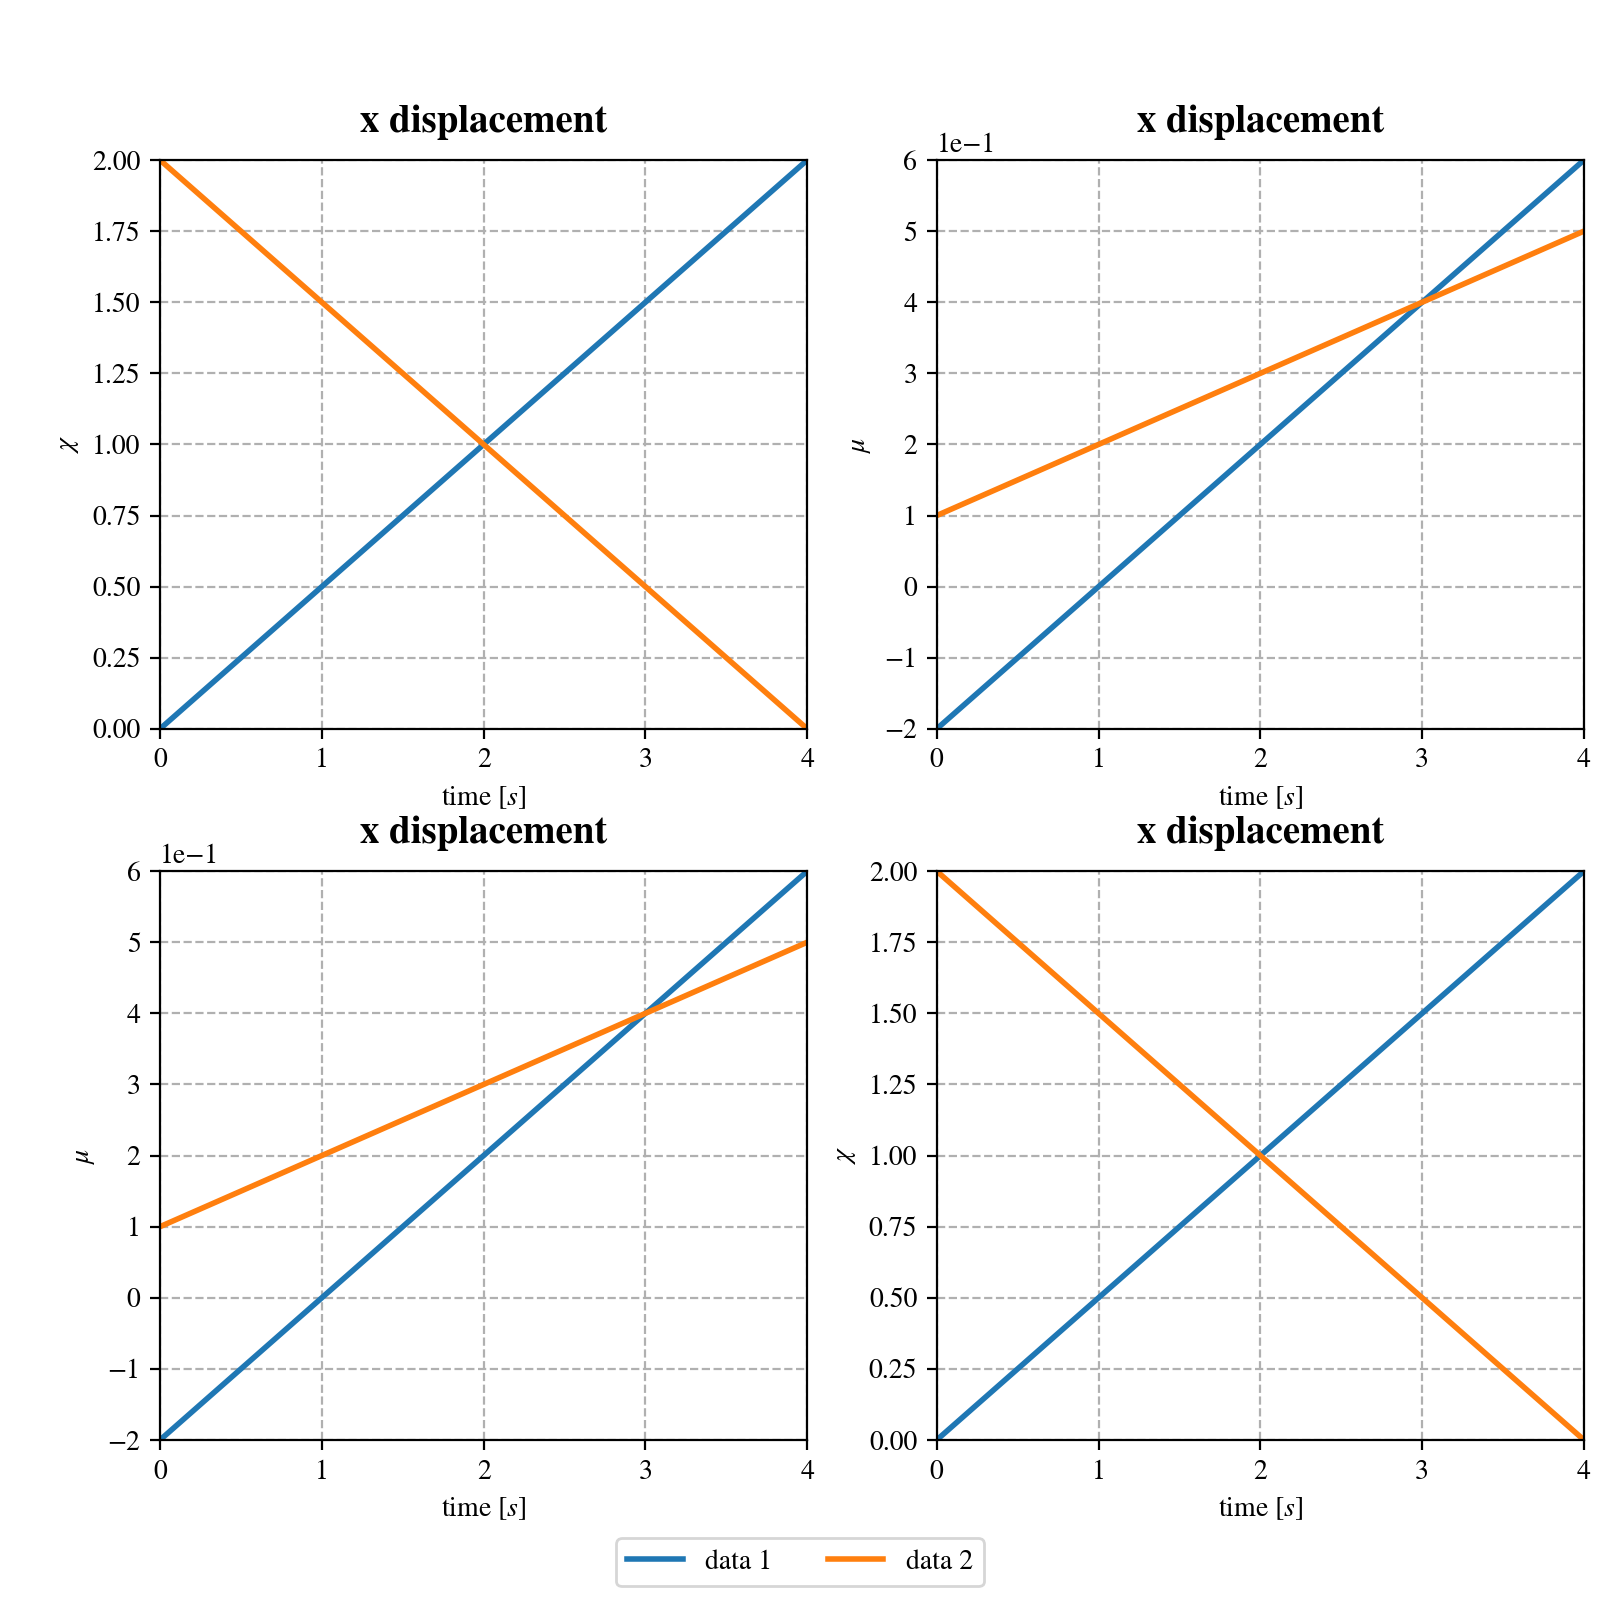
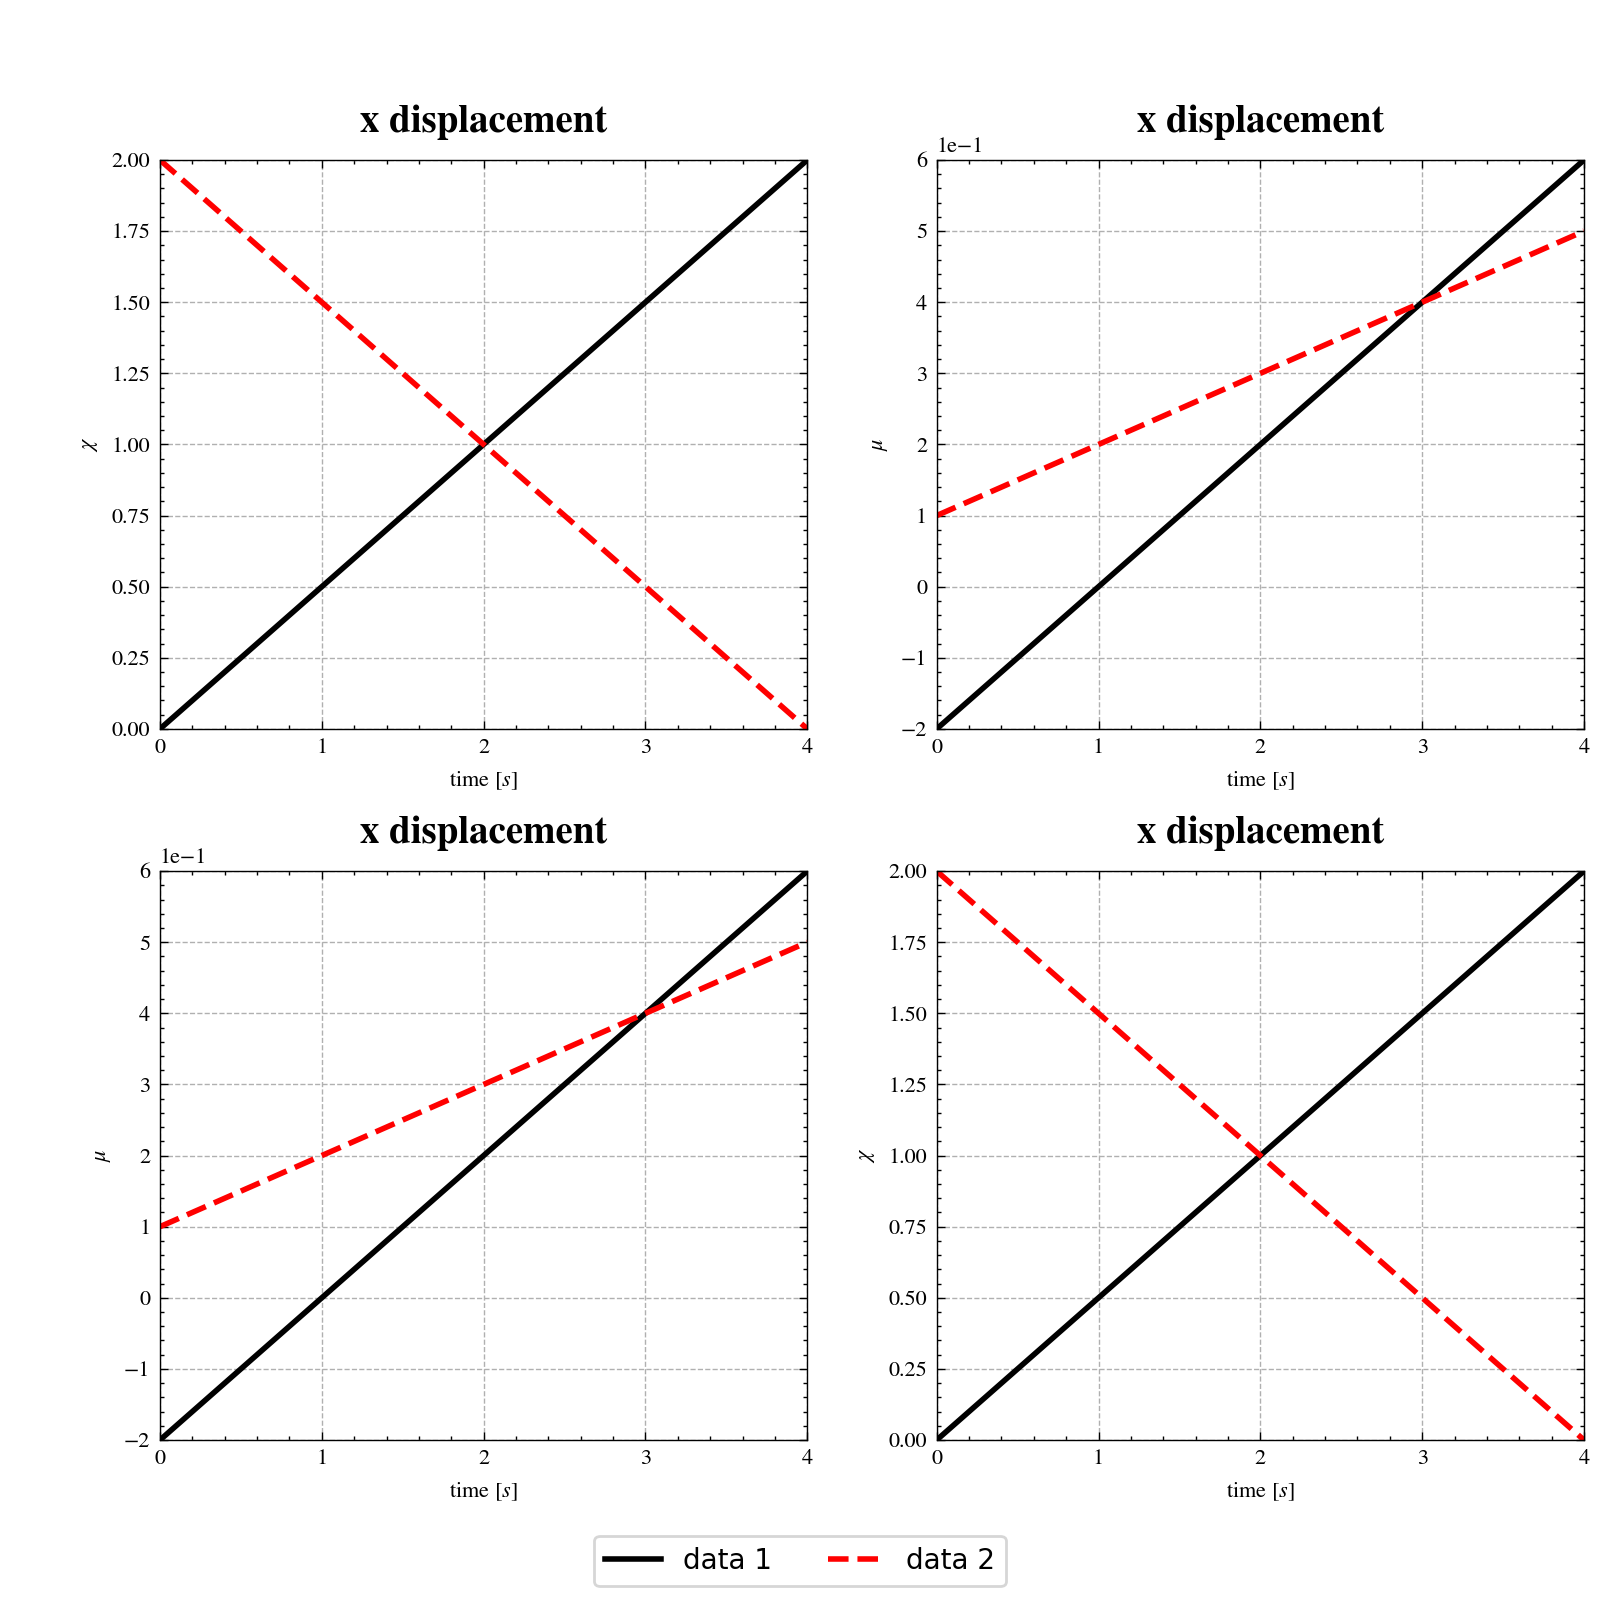
colors and style

diff --git a/examples/test1.py b/examples/test1.py
@@ -25,13 +25,23 @@ fig_param = {
 # ylim = [0, 1.0]
 xlim = None
 ylim = None
+
+# style = ['science']
+# style = ['science', 'notebook']
+# style = ['science', 'nature']
+style = ['science', 'ieee']
+# style = ['science', 'grid']
+colors = [
+    'red', 'black'
+]
+
 plot1 = SubPlot(
     files,
     [('time', 'val1')] * len(files),
     xtitle=r'time $[s]$',
     ytitle=(r'$\chi$'),
     labels=labels,
-    style=None,
+    style=style,
     legend_title='method',
     title='x displacement',
     xlim=xlim,
@@ -48,7 +58,7 @@ plot2 = SubPlot(
     xtitle=r'time $[s]$',
     ytitle=(r'$\mu$'),
     labels=labels,
-    style=None,
+    style=style,
     legend_title='method',
     title='x displacement',
     xlim=xlim,
